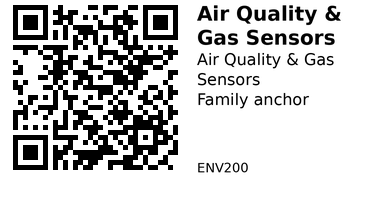
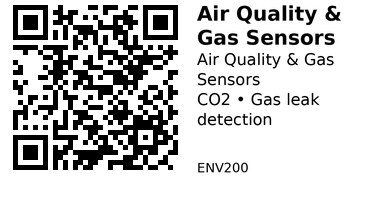
Standardize family index structure across all families
**Updated all family indexes:**
- Added "## Components in This Family" header before {{children()}} macro
- Provides consistent visual separation between family content and component list

**Updated ENV200 (Air Quality):**
- Changed front-matter from sticker_line1/sticker_line2 to short/use
- Renamed "Projects Using This Family" → "Common Applications" (more concise)
- Removed duplicate content (wiring/technical details belong in component pages)

**Updated SESSION_HANDOFF.md:**
- Updated front-matter example to use short/use instead of sticker_line1/sticker_line2
- Added folder structure guidelines (no "Other" folder, sticker path depth)
- Updated family index template (removed wiring sections, added separator)
- Documented "## Components in This Family" pattern

**Families updated:**
- Logic-ICs, Environmental/Air-Quality, esp32, DC-DC Converter
- Magnetic Sensors, Battery Charging, LDO, Bipolar Junction Transistor

🤖 Generated with [Claude Code](https://claude.com/claude-code)

Changed region(s): [[0.5, 0.45, 0.8438, 0.54], [0.5, 0.57, 0.7188, 0.63]]

diff --git a/SESSION_HANDOFF.md b/SESSION_HANDOFF.md
@@ -77,9 +77,9 @@ Every component page must have:
 id: ENV101                      # Component ID (required)
 name: DS18B20                   # Display name (required)
 category: ENV                   # Category code (required)
-tags: [temperature, sensor, waterproof, 1-wire, esp32-safe]  # Searchable tags (required)
-sticker_line1: "Temp sensor • ±0.5°C • Waterproof"  # What it is + key specs (required)
-sticker_line2: "Outdoor temp sensing"                # Primary use case (required)
+tags: [temperature, sensor, waterproof, 1-wire, esp32-compatible, arduino-compatible]  # Searchable tags (required)
+short: "Temp sensor • ±0.5°C • Waterproof"  # What it is + key specs (required)
+use: "Outdoor temp sensing"                  # Primary use case (required)
 # Optional fields:
 title: DS18B20                  # Override page title (defaults to name)
 qr_url: https://...             # Override QR URL
@@ -89,7 +89,7 @@ no_label: false                 # Set true to skip sticker generation
 
 **Sticker Field Guidelines:**
 
-`sticker_line1` - **What it is + key differentiator**
+`short` - **What it is + key differentiator**
 - Start with what it IS in plain language
 - Add 1-2 key specs that differentiate it from similar components
 - Example: "Temp sensor • ±0.5°C • Waterproof" (DS18B20)
@@ -97,7 +97,7 @@ no_label: false                 # Set true to skip sticker generation
 - Example: "CO2 sensor • NDIR • 0-5000ppm" (MH-Z19C)
 - Keep under ~35 characters
 
-`sticker_line2` - **Best use case or key compatibility**
+`use` - **Best use case or key compatibility**
 - When would you grab THIS one over alternatives?
 - OR what platform is it compatible with?
 - Example: "Outdoor temp sensing" (DS18B20)
@@ -283,11 +283,24 @@ void loop() {
   - ❌ Wrong: `**Sources:**\n- [Link](url)` (doesn't render)
   - ✅ Correct: `**Sources:**\n\n- [Link](url)` (blank line)
 
+**Folder Structure:**
+
+- **Family folders at root:** `docs/components/Logic-ICs/`, `docs/components/Environmental/`, etc.
+- **NO "Other" category:** Avoid generic "Other" folders that group unrelated components
+- **Single components at root:** `docs/components/RF101.md`, `docs/components/SW201.md` (no family folder needed)
+- **Sticker path depth matters:**
+  - Root components (1 level): `docs/components/RF101.md` → `![QR sticker](stickers/RF101.png)`
+  - Family components (2 levels): `docs/components/Logic-ICs/OT101.md` → `![QR sticker](../stickers/OT101.png)`
+  - Nested family (3 levels): `docs/components/Environmental/Air-Quality/ENV201.md` → `![QR sticker](../../stickers/ENV201.png)`
+
 **Nested Component Paths:**
+
 - Components in nested folders must use **relative paths** for sticker images
-- **Wrong:** `![QR sticker](stickers/ENV201.png)` (looks in current folder)
-- **Correct:** `![QR sticker](../../stickers/ENV201.png)` (goes up to docs/components/)
-- Path calculation: `docs/components/Environmental/Air-Quality/ENV201.md` → `../../stickers/ENV201.png`
+- Path calculation: Count levels from component file to `docs/components/`, then add `stickers/`
+- **Examples:**
+  - 1 level deep: `stickers/OT001.png`
+  - 2 levels deep: `../stickers/OT101.png`
+  - 3 levels deep: `../../stickers/ENV201.png`
 
 **Platform Compatibility Tags:**
 
@@ -323,13 +336,21 @@ Tag `arduino-compatible` if:
 Each family `index.md` should have:
 
 **IMPORTANT: Avoid duplication!**
+
 - Don't repeat wiring details (those belong in component pages)
 - Don't repeat technical notes (those belong in component pages)
+- Don't repeat "Projects Using This Family" as separate section (merge into "Common Applications" if needed)
 - Focus on comparison and selection guidance only
 
 **Make comparison table links clickable:**
+
 - Component names in table should link to component pages
 - Example: `| [ENV201](ENV201.md) (MH-Z19C) |` (clickable link)
+
+**Consistent separator before {{children()}}:**
+
+- Always use `---` followed by `## Components in This Family` header
+- This creates clear visual separation between family content and component list
 
 ```markdown
 ---
@@ -381,26 +402,16 @@ Sensors for measuring ambient temperature and/or relative humidity in various en
 - Calibration acceptable
 - Lowest cost option
 
-## Common Wiring
+## Common Applications
 
-**3-pin sensors** (ENV101, ENV103):
-- VCC, GND, Data line
-- Check voltage: 3.3V or 5V (see individual component pages)
+- **Weather station**: ENV102 for outdoor, ENV104 for indoor precision
+- **Aquarium/terrarium monitoring**: ENV101 waterproof probes
+- **Smart home HVAC control**: ENV104 for accuracy
+- **Greenhouse automation**: ENV102 or ENV104
 
-**I2C sensors** (ENV102, ENV104):
-- VCC, GND, SDA, SCL
-- Require 4.7kΩ pull-ups on SDA/SCL (check if onboard)
+---
 
-**Analog sensors** (ENV105):
-- VCC, GND, Analog output
-- Connect to ADC pin (ESP32: GPIO 32-39)
-
-## Projects Using This Family
-
-- Weather station (ENV102 for outdoor, ENV104 for indoor precision)
-- Aquarium/terrarium monitoring (ENV101 waterproof probes)
-- Smart home HVAC control (ENV104 for accuracy)
-- Greenhouse automation (ENV102 or ENV104)
+## Components in This Family
 
 {{ children() }}
 ```

diff --git a/docs/components/Environmental/Air-Quality/index.md b/docs/components/Environmental/Air-Quality/index.md
@@ -3,8 +3,8 @@ id: ENV200
 name: Air Quality & Gas Sensors
 category: ENV
 tags: [family, sensor, air-quality, gas]
-sticker_line1: "Air Quality & Gas Sensors"
-sticker_line2: "Family anchor"
+short: "Air Quality & Gas Sensors"
+use: "CO2 • Gas leak detection"
 ---
 
 # Air Quality & Gas Sensors
@@ -34,13 +34,15 @@ Sensors for detecting CO2 concentration, combustible gases, smoke, and other air
 - Simple analog threshold detection sufficient
 - Don't need precise ppm readings (qualitative detection)
 
-## Projects Using This Family
+## Common Applications
 
-- Smart ventilation (ENV201: auto-open windows when CO2 >1000ppm)
-- Kitchen gas leak alarm (ENV202: LPG detection)
-- Indoor air quality monitor (ENV201: log CO2 + temp/humidity)
-- RV/camper safety (ENV201: CO2, ENV202: propane detection)
+- **Smart ventilation** (ENV201): Auto-open windows when CO2 >1000ppm
+- **Kitchen gas leak alarm** (ENV202): LPG/propane detection
+- **Indoor air quality monitor** (ENV201): Log CO2 + temp/humidity
+- **RV/camper safety**: CO2 monitoring (ENV201), propane detection (ENV202)
 
 ---
+
+## Components in This Family
 
 {{ children() }}

diff --git a/docs/components/Bipolar Junction Transistor/index.md b/docs/components/Bipolar Junction Transistor/index.md
@@ -20,6 +20,8 @@ This family groups together **common small‑signal BJTs** (both NPN and PNP) th
 need a simple transistor for switching or low‑power amplification. The idea is that you can land on this page, scan the
 table, and then jump to the specific device page that best matches your required **voltage**, **current** and **role**.
 
+## Components in This Family
+
 {{ children() }}
 
 ## Quick comparison

diff --git a/docs/registry/index.md b/docs/registry/index.md
@@ -7,7 +7,7 @@ hide:
 # Component ID Registry
 
 _This page is generated from `components/stickers/id_registry_simple.yaml`._  
-**Generated:** 2025-11-25T01:18:42Z
+**Generated:** 2025-11-25T01:38:32Z
 
 ## Categories
 | Code | Title | Count | Next ID | Next by family |

diff --git a/docs/components/esp32/index.md b/docs/components/esp32/index.md
@@ -14,6 +14,8 @@ use: "Development"
 
 # ESP32 Development Boards
 
+## Components in This Family
+
 {{ children() }}
 
 ---

diff --git a/docs/components/DC-DC Converter/index.md b/docs/components/DC-DC Converter/index.md
@@ -12,6 +12,8 @@ short: "3.3V or 5V"
 
 # DC – DC Converter
 
+## Components in This Family
+
 {{ children() }}
 
 

diff --git a/docs/components/Battery Charging/index.md b/docs/components/Battery Charging/index.md
@@ -14,6 +14,8 @@ short: "Solar or USB"
 
 # Battery Charging
 
+## Components in This Family
+
 {{ children() }}
 
 

diff --git a/docs/components/LDO/index.md b/docs/components/LDO/index.md
@@ -12,6 +12,8 @@ short: "linear regulator"
 
 # LDO
 
+## Components in This Family
+
 {{ children() }}
 
 

diff --git a/docs/components/Magnetic Sensors/index.md b/docs/components/Magnetic Sensors/index.md
@@ -15,6 +15,8 @@ tags:
 
 # Magnetic Sensors
 
+## Components in This Family
+
 {{ children() }}
 
 ---
